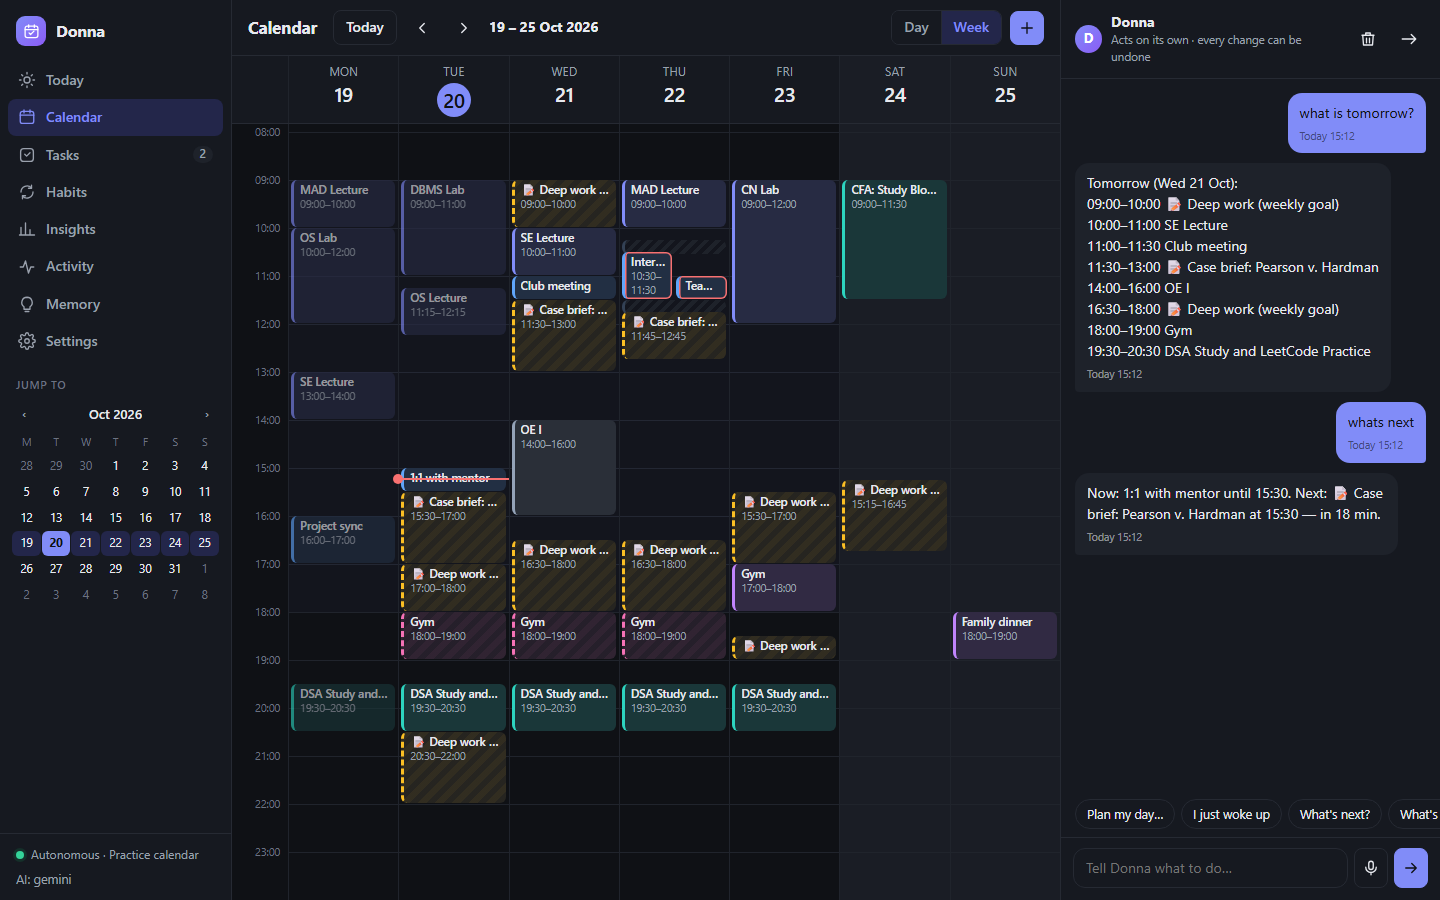
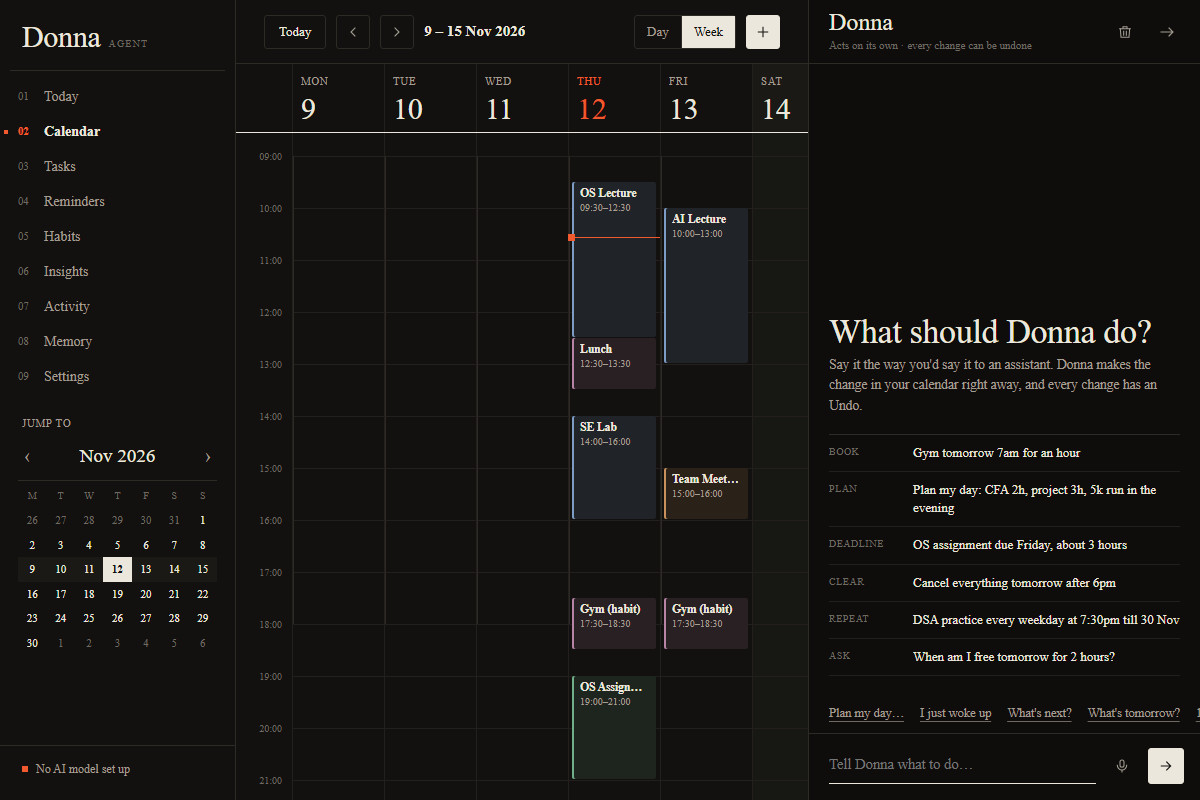
docs: update README for v9 and refresh UI screenshots

diff --git a/README.md b/README.md
@@ -25,33 +25,39 @@ Free to run: Cloudflare Workers + D1 + Workers AI, a small Google Apps Script br
 | "I woke up just now" | Re-plans the rest of today from now, keeping classes fixed |
 | "Gym 1h sometime between 5 and 9pm on weekdays" | A habit placed in the best free slot each day |
 | "DSA every weekday 7:30pm till 30 Nov" | One real repeating Google event |
+| "Remind me to renew my passport" | Undated reminder on your list and in a Monday overview calendar event |
+| "Travel 12 to 3pm color red" | High-priority booking: clears conflicting lower-priority events with one-tap Undo |
+| "Call with Priya tomorrow 3pm and invite her" | Sends a Google invite with a Meet link (never emails anyone unless asked) |
 | "undo that" | Reverts the whole last request |
 
 **Evening autopilot:** open the app after 6 pm and Donna gets tomorrow ready on her own: task sessions,
 habits, buffers around exams and interviews, clashes fixed.
 
 ## Built so you can trust it
+- **Learns your peak hours:** learns hour-by-hour from your Done / Missed check-ins, edits, and feedback (`src/rhythm.js`) without outvoting hard limits (sleep, classes, deadlines).
 - **Your call:** every change Donna makes on her own shows up on the home screen with the reason, and a
   **Keep** / **Undo** button. Keeping teaches her; undoing reverts just that change. A weekly ledger shows
   how many changes she made and how many you kept.
 - **Who placed what:** every block is marked as yours, "you asked", or placed by Donna, with a *Why here* line.
 - **Your energy, visible:** a day strip shades your energy curve (from your own wake-up and wind-down
   times), so you can see why deep work lands where it does.
+- **Colours as priorities:** 11 Google Calendar colours ranked by priority; higher-priority bookings clear lower-priority events automatically (optional, off by default for uncoloured).
 - **Rules in code, not hope:** she never cancels anything you didn't ask to cancel, never double-books,
   never touches protected events (classes, exams, family) unless you name them, and "undo" only runs when you
   actually ask for it. Answers are self-checked (claimed changes vs real changes, times in the report vs times booked).
-- **Passkeys:** sign in with Windows Hello, Touch ID or Face ID; "sign out all other devices" in one tap.
+- **Passkeys & Vault:** sign in with Windows Hello, Touch ID or Face ID; API keys and tokens are encrypted at rest with AES-256-GCM in D1.
 
 ## Fast
-- The next ~6 weeks of your calendar are kept in the database, so the app opens instantly and never waits
+- The next ~6 weeks of your calendar are kept in the database (`gcache`), so the app opens instantly and never waits
   on Google; it checks Google in the background and redraws only if something changed.
-- The app shell and your last view load from the device first (installable PWA).
+- All request state changes save to D1 in **one atomic transaction** (`writeMany`).
+- A writer lock (`WriterLock` Durable Object) prevents multi-device write races.
+- The app shell and your last view load from the device first (installable PWA with "Timetable" aesthetic).
 - A reply never takes more than ~40 s; if the AI is slow she tells you what she managed instead of spinning.
 
 ## How it decides where things go
-`src/smart.js` scores every possible start time:
-- **Energy:** deep work (study, coding, projects) in peak hours, light work (email, review) in the
-  post-lunch dip, workouts in the morning or early evening — anchored on *your* wake-up time.
+`src/smart.js` and `src/rhythm.js` score every possible start time:
+- **Energy:** deep work in peak hours, light work in the post-lunch dip, workouts in the morning or early evening — anchored on *your* wake-up time and personal rhythm.
 - **No waste:** a placement that leaves a 10–25 minute gap nobody can use loses points.
 - **Rhythm:** no two deep blocks glued together; parts of one item spread out; no deep work straight after a long lab.
 - **Deadlines:** sessions spread over days, finished a day early when possible, lighter days first.
@@ -62,17 +68,17 @@ habits, buffers around exams and interviews, clashes fixed.
 ## Architecture
 ```
 Browser / phone (PWA)  ──►  Cloudflare Worker (worker.js, src/api.js)
-                              ├─ D1: settings, tasks, habits, action log, saved calendar copy
+                              ├─ D1: settings, tasks, habits, action log, saved calendar copy, encrypted vault
                               ├─ AI router (src/llm.js): Gemini → Groq/Cerebras → Workers AI, auto-failover
                               ├─ Engine (src/engine.js): tools + guardrails + undo
-                              ├─ Planner (src/planner.js, src/dayplan.js, src/smart.js)
+                              ├─ Planner (src/planner.js, src/dayplan.js, src/smart.js, src/rhythm.js)
                               └─ Google Apps Script bridge (bridge/Code.gs) ──► Google Calendar
 ```
 
 ## Run it yourself
 **On your laptop (practice calendar, no Google needed):**
 ```
-npm test          # 70+ offline tests, no network
+npm test          # 136 offline tests + 14-scenario scheduling benchmark, no network
 npm start         # http://localhost:4321 — Settings → load the demo week, add a free Gemini key
 ```
 (or double-click `Start Donna.bat` on Windows)
@@ -86,6 +92,10 @@ npm start         # http://localhost:4321 — Settings → load the demo week, a
    [Apps Script](https://script.google.com) project, add the *Google Calendar API* service, deploy as a web
    app (access: Anyone), paste the `/exec` URL back and press *Test connection*.
 6. Settings → Security: add a passkey for this device.
+
+## Testing & Quality
+- `npm test`: 136 offline checks across 8 suites + a 14-scenario scheduling benchmark (`eval/plan-bench.js`); offline, ~20 s.
+- 95-scenario evaluation suite (`eval/crud.js`) validating natural language understanding, Hinglish parsing, and edge cases.
 
 ## Privacy
 Your calendar data stays in your own Cloudflare account and your own Google account. Nothing is sent
